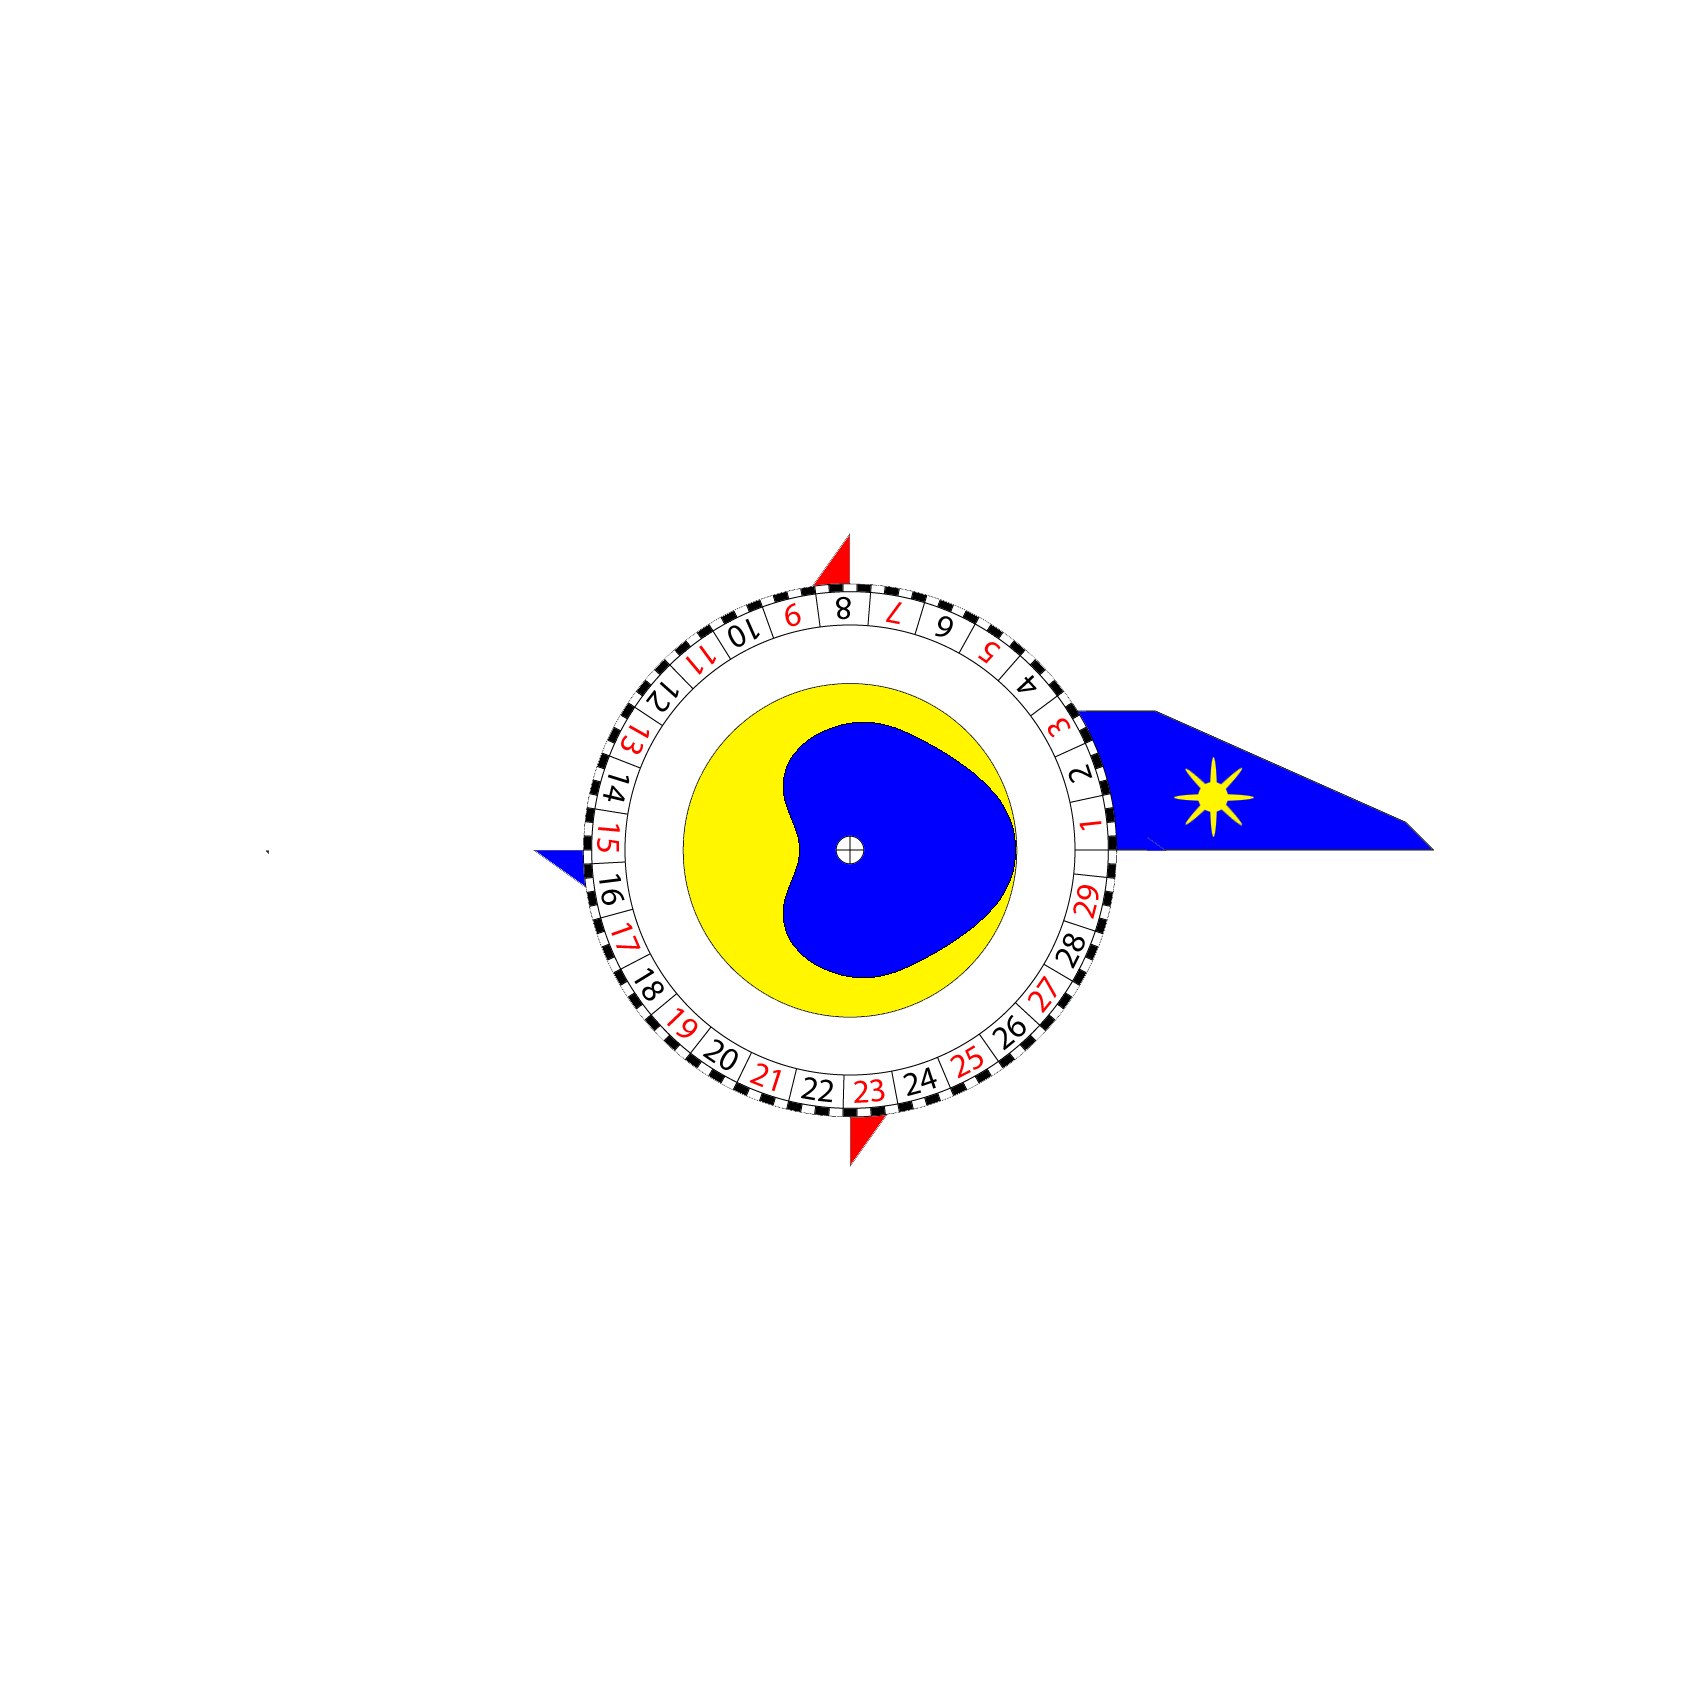
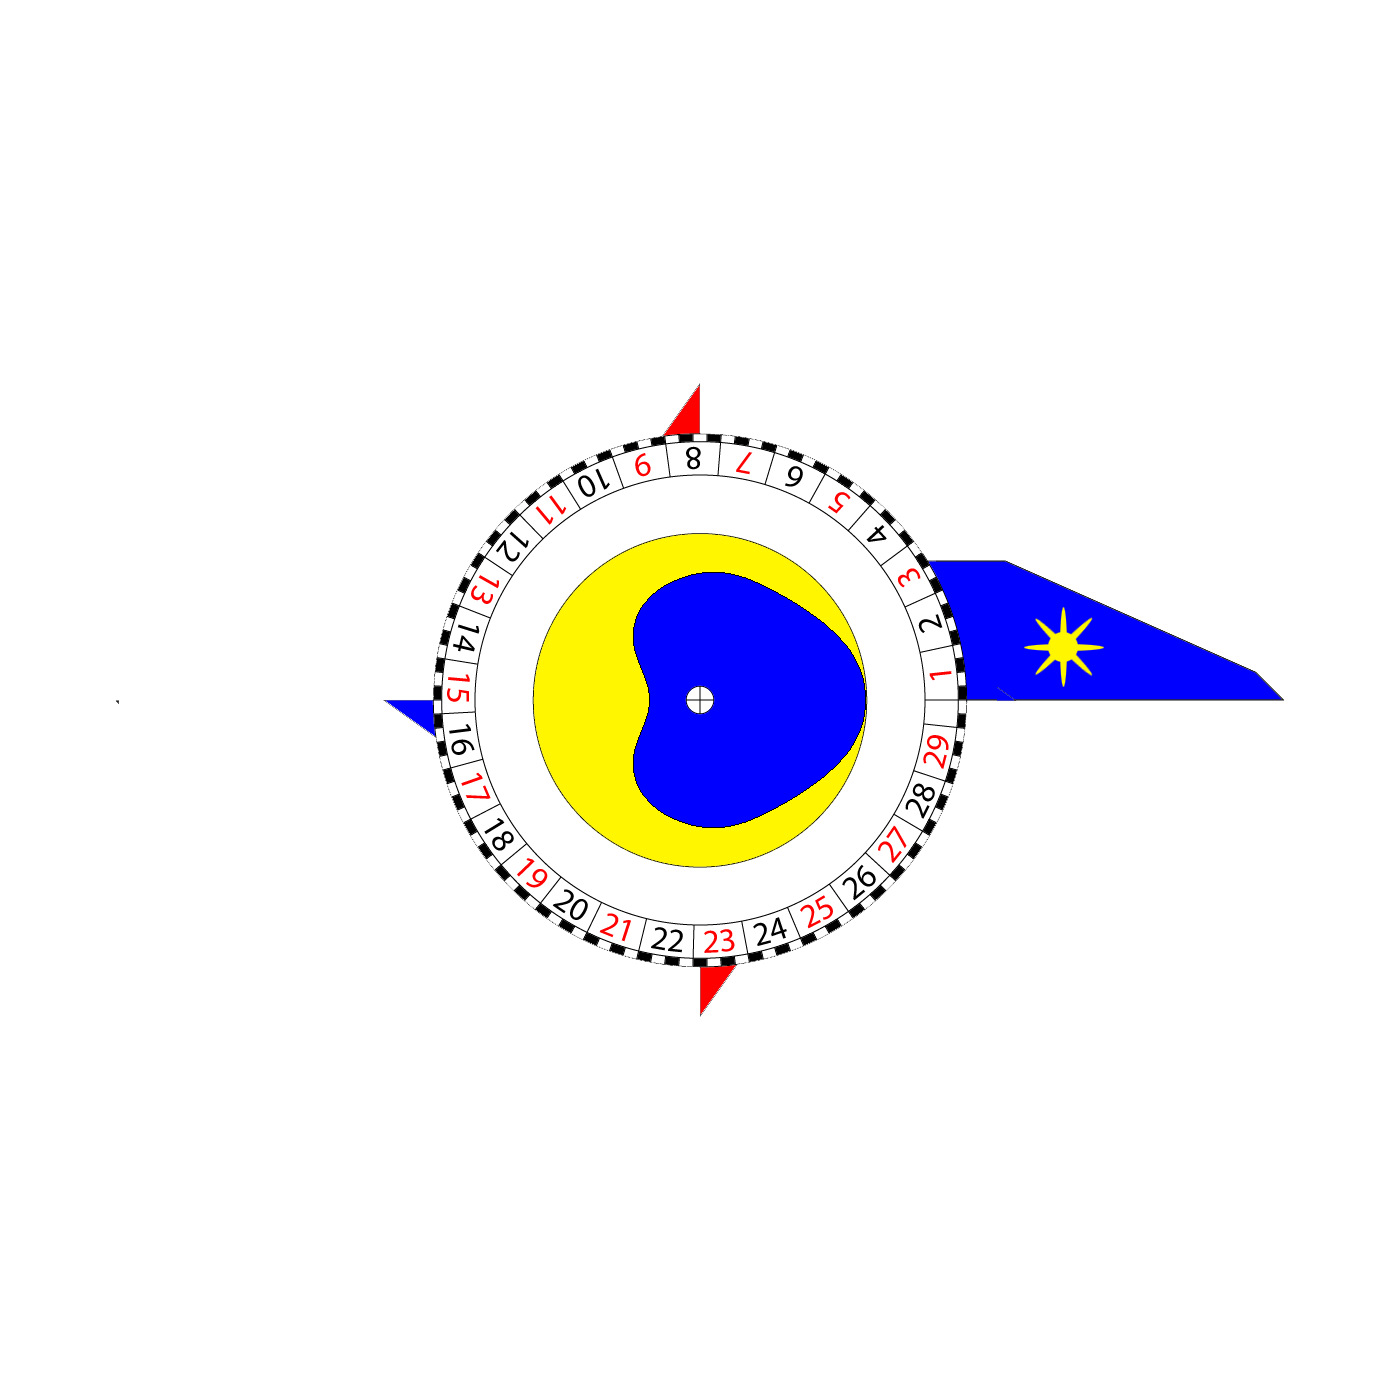
tweaks to volvelle layout

Changed region(s): [[0.2764, 0.2764, 0.9214, 0.7371]]

diff --git a/lunarvolvelle/src/sim.html b/lunarvolvelle/src/sim.html
@@ -38,8 +38,8 @@ Book Title or subject: Medical miscellany, including an astronomical calendar
 			body,canvas{ background-color: #EEE8AA; }
 			.panel {
 				float: left;
-				width: 850px;
-				height: 850px;
+				width: 800px;
+				height: 800px;
 				position: relative;
 				font-size: .8em;
 
@@ -140,11 +140,11 @@ Book Title or subject: Medical miscellany, including an astronomical calendar
 					ctxF.translate(cxF,cyF);
 					ctxF.rotate(moonAngle);
 					ctxF.beginPath();
-					ctxF.moveTo(0,-110);
-					ctxF.lineTo(0,-290);
-					ctxF.lineTo(-15,-280);
-					ctxF.lineTo(-70,-150);
-					ctxF.lineTo(-70,-90);
+					ctxF.moveTo(0,-125);
+					ctxF.lineTo(0,-335);
+					ctxF.lineTo(-15,-320);
+					ctxF.lineTo(-80,-175);
+					ctxF.lineTo(-80,-105);
 					ctxF.closePath();					
 					//ctxF.fillStyle="blue";
 					//ctxF.fill();
@@ -157,10 +157,10 @@ Book Title or subject: Medical miscellany, including an astronomical calendar
 					ctxF.rotate(sunAngle);
 					ctxF.beginPath();
 					ctxF.moveTo(130,0);
-					ctxF.lineTo(290,0);
-					ctxF.lineTo(280,-15);
-					ctxF.lineTo(150,-70);
-					ctxF.lineTo(110,-70);
+					ctxF.lineTo(335,0);
+					ctxF.lineTo(325,-15);
+					ctxF.lineTo(180,-80);
+					ctxF.lineTo(110,-80);
 					ctxF.closePath();
 					//ctxF.fillStyle="red";
 					//ctxF.fill();
@@ -172,7 +172,7 @@ Book Title or subject: Medical miscellany, including an astronomical calendar
 					ctxF.translate(cxF,cyF);
 					ctxF.rotate(calendarAngle);
 					ctxF.beginPath();
-					ctxF.arc(0,0,267,0,2 * Math.PI, false);
+					ctxF.arc(0,0,305,0,2 * Math.PI, false);
 					//ctxF.fillStyle="blue";
 					//ctxF.fill();
 					ctxF.restore();
@@ -183,7 +183,7 @@ Book Title or subject: Medical miscellany, including an astronomical calendar
 					ctxF.translate(cxF,cyF);
 					ctxF.rotate(calendarAngle);
 					ctxF.beginPath();
-					ctxF.arc(0,0,135,0,2 * Math.PI, false);
+					ctxF.arc(0,0,155,0,2 * Math.PI, false);
 					//ctxF.fillStyle="blue";
 					//ctxF.fill();
 					ctxF.restore();
@@ -322,7 +322,7 @@ Book Title or subject: Medical miscellany, including an astronomical calendar
 	<body>
 		<div id="astrolabePanel" class="astrolabe panel">
 			<div class="front">
-				<canvas id="canvasfront" width=850 height=850></canvas>
+				<canvas id="canvasfront" width=800 height=800></canvas>
 			</div>
 		</div>
 		<div id="preload">
